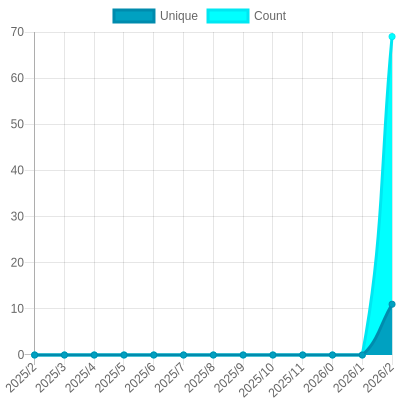
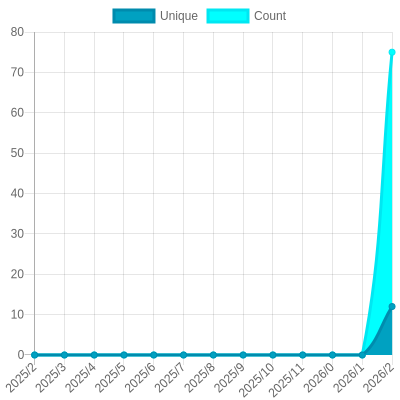
Update views

diff --git a/README.md b/README.md
@@ -26,7 +26,7 @@ The project created and maintained by [gayanvoice](https://github.com/gayanvoice
 			</a>
 		</td>
 		<td>
-			2025/3/18 1:49 PM UTC
+			2025/3/19 1:49 PM UTC
 		</td>
 		<td>
 			4
@@ -37,7 +37,7 @@ The project created and maintained by [gayanvoice](https://github.com/gayanvoice
 	</tr>
 </table>
 
-<small><i>Last updated on 2025/3/20 6:24 PM UTC</i></small>
+<small><i>Last updated on 2025/3/21 1:22 AM UTC</i></small>
 
 ## ✂Copy and 📋 Paste
 ### Total Views Badge

diff --git a/readme/797841224/year.md b/readme/797841224/year.md
@@ -23,10 +23,10 @@
 			<code>2025/3/1</code>
 		</td>
 		<td>
-			<code>11</code>
+			<code>12</code>
 		</td>
 		<td>
-			<code>69</code>
+			<code>75</code>
 		</td>
 	</tr>
 	<tr>
@@ -164,7 +164,7 @@
 </table>
 
 </details>
-<small><i>Last updated on 2025/3/20 6:24 PM UTC</i></small>
+<small><i>Last updated on 2025/3/21 1:21 AM UTC</i></small>
 
 ## ✂Copy and 📋 Paste
 ### SVG Badge
